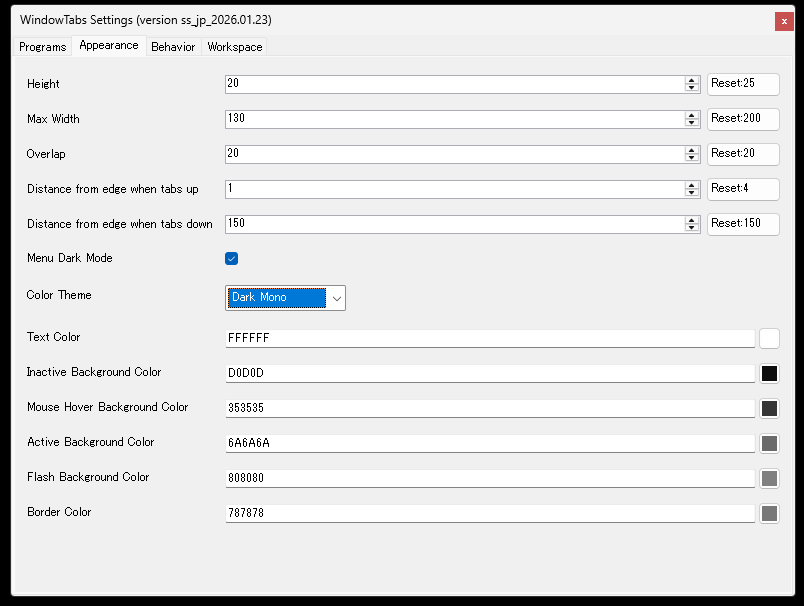
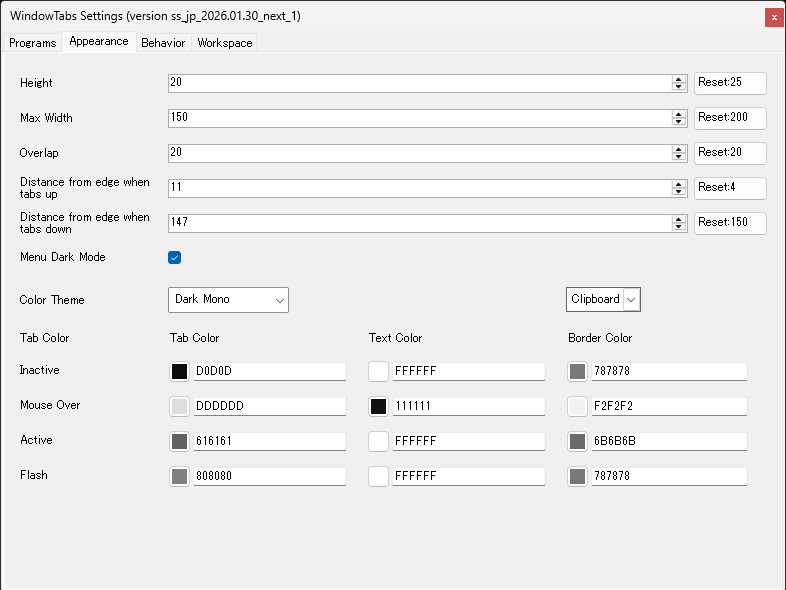
update README

diff --git a/README_Japanese.md b/README_Japanese.md
@@ -202,8 +202,8 @@ WindowTabs をスタートアップ時に起動:
 WindowTabs は再起動時や無効化時にタブグループの設定を保持します:
 
 - **再起動時の永続化**: WindowTabs 終了時にタブグループを自動保存し、次回起動時に復元
-  - タブの順序とグループ化を保持
-  - プロセスパスとウィンドウタイトルでウィンドウをマッチング
+  - タブの順序、グループ化、変更したタブ名を保持
+  - ウィンドウハンドルでウィンドウをマッチングして確実に復元
 - **無効化/有効化の永続化**: WindowTabs を一時的に無効にした際もタブグループを保持
   - 有効化時に以前のタブ設定を復元
 
@@ -242,13 +242,18 @@ WindowTabs は再起動時や無効化時にタブグループの設定を保持
 
 タブの視覚的な外観をカスタマイズできます:
 - 高さ、幅、重なりの設定 (項目ごとにリセットボタンあり)
-- 枠線と文字の色
-- 背景の色 (アクティブ、非アクティブ、マウスオーバー、点滅)
-- カラーテーマのドロップダウン (プリセットとカスタムテーマ)
 - 端からの距離設定
+- タブの状態ごとの色設定 (非アクティブ、マウスオーバー、アクティブ、点滅)
+  - タブの色、文字の色、枠線の色
+- プリセットテーマ (Light、Light Mono、Dark、Dark Blue、Dark Mono、Dark Red Frame)
+- カスタムカラーテーマ機能
+  - テーマの保存/編集/削除
+  - クリップボードでのインポート/エクスポート
+  - よいカラーテーマを作られた方は、ぜひ [GitHub Issues](https://github.com/standard-software/WindowTabs/issues) に投稿してください。既定のカラーテーマとして組み込ませていただく場合もあります。他の方にもかっこいいカラーテーマを使っていただきたいです！
 
 ![Settings Appearance](README_Image/SettingsAppearance.png)
 ![Settings AppearanceColorTheme](README_Image/SettingsAppearanceColorTheme.png)
+![Settings AppearanceColorThemeClipboard](README_Image/SettingsAppearanceColorThemeClipboard.png)
 
 ### タブの動作
 

diff --git a/README.md b/README.md
@@ -213,8 +213,8 @@ Temporarily disable WindowTabs functionality via tray menu:
 WindowTabs preserves your tab group configuration across restarts and disabling:
 
 - **Restart Persistence**: Tab groups are automatically saved when WindowTabs exits and restored on next startup
-  - Tab order and grouping are preserved
-  - Windows are matched by process path and window title
+  - Tab order, grouping, and renamed tab names are preserved
+  - Windows are matched by window handle for reliable restoration
 - **Disable/Enable Persistence**: Tab groups are preserved when temporarily disabling WindowTabs
   - Re-enabling restores your previous tab configuration
 
@@ -243,13 +243,17 @@ Configure which programs should use tabs and auto-grouping behavior.
 
 Customize the visual appearance of tabs:
 - Height, width, and overlap settings (with separate reset buttons per control)
-- Border and text color
-- Background colors (active, inactive, mouse hover, flash)
-- Color theme dropdown with preset and custom themes
 - Distance from edge settings
+- Color settings for each tab state (Inactive, Mouse Over, Active, Flash)
+  - Tab color, text color, and border color
+- Color theme with preset themes (Light, Light Mono, Dark, Dark Blue, Dark Mono, Dark Red Frame)
+- Custom color theme features
+  - Save/edit/delete custom themes
+  - Import/export themes via clipboard
+  - If you create a nice color theme, please share it at [GitHub Issues](https://github.com/standard-software/WindowTabs/issues). Your theme may be included as a preset theme. We'd love for others to enjoy your cool color themes!
 
 ![Settings Appearance](README_Image/SettingsAppearance.png)
-![Settings AppearanceColorTheme](README_Image/SettingsAppearanceColorTheme.png)
+![Settings AppearanceColorTheme](README_Image/SettingsAppearanceColorTheme.png)![Settings AppearanceColorThemeClipboard](README_Image/SettingsAppearanceColorThemeClipboard.png)
 
 ### Behavior Tab
 
